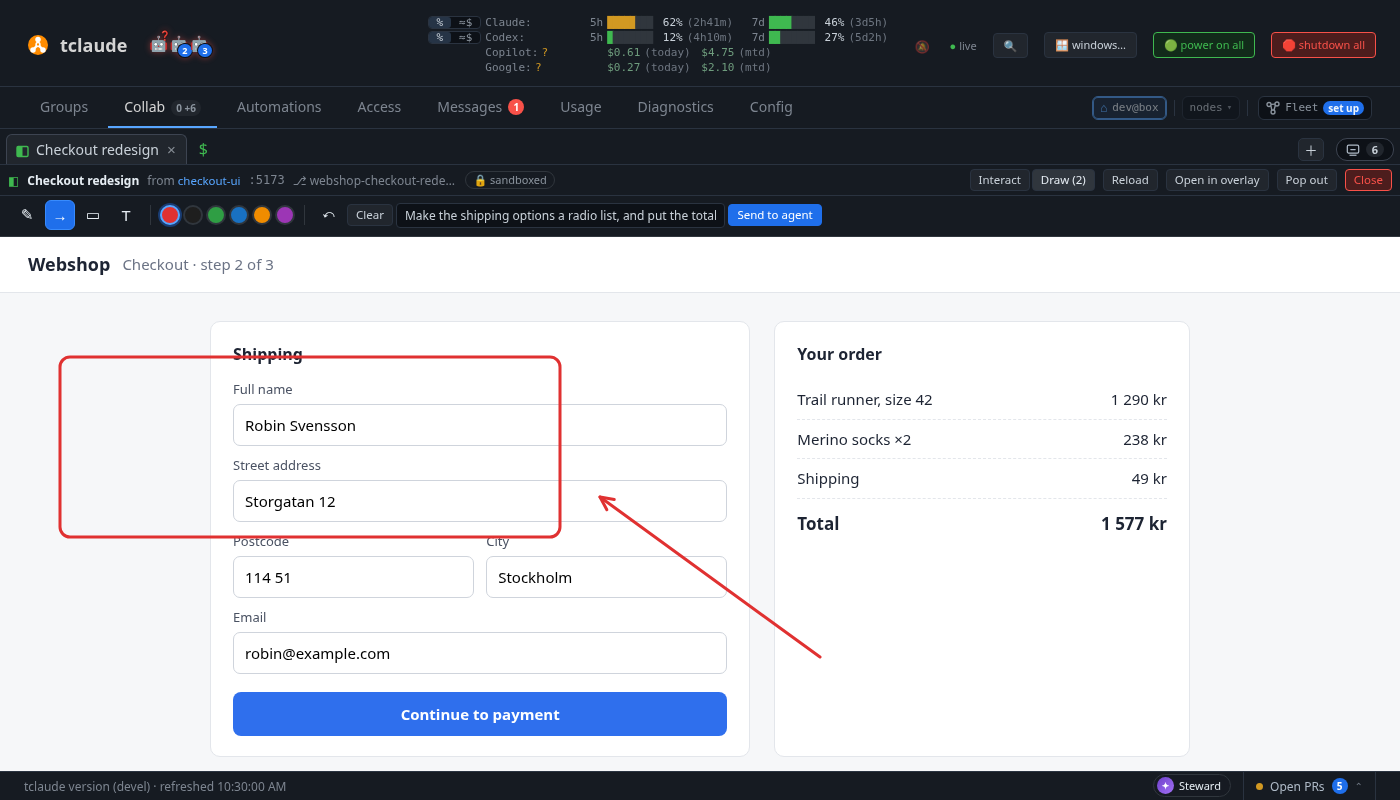
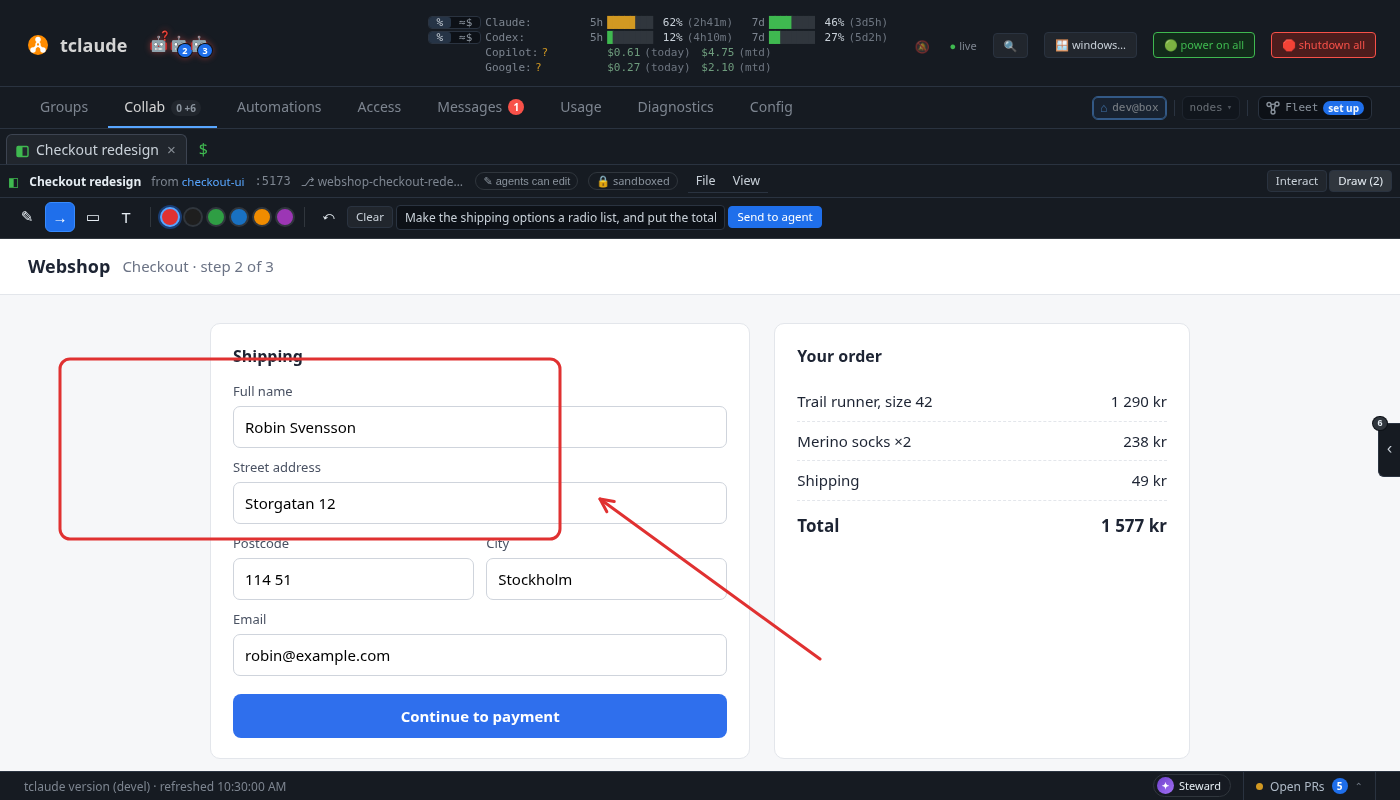
dashboard: a live page wears the resource editor header
A live page's header becomes the shared ResourceEditorHeader
(tk_034e2afc): File (Reload, Close page), View (Without the live patches,
then the host's moves in editorMoveItems' wording, replacing Open in
overlay / Pop out / To the Collab tab buttons); Interact / Draw stays at
hand in the header's new actions slot. The live-page doc and its two
images follow.

diff --git a/pkg/claude/agentd/dashboard/js/page-view.js b/pkg/claude/agentd/dashboard/js/page-view.js
@@ -13,6 +13,7 @@ import { h } from 'preact';
 import { useEffect, useRef, useState } from 'preact/hooks';
 import htm from 'htm';
 import { Button } from './ui-components.js';
+import { ResourceEditorHeader, editorMoveItems } from './resource-editor-header.js';
 import { LockChip } from './resource-lock.js';
 import {
   PAGE_FRAME_SANDBOX, PAGE_WINDOW_KIND, findLivePage, isPageId, pageFrameSrc, pageLabel, pagePaneSeed, pageSandboxRules, pageSender,
@@ -24,7 +25,7 @@ import { OverlayWindow } from './overlay-window.js';
 import { OVERLAY_FOOTER_ROOM, clampPlacement } from './overlay-window-model.js';
 import { windowControlsLook } from './overlay-window-controls.js';
 import { closeOverlayTab, minimizeOverlayWindow } from './overlay-instances.js';
-import { POPUP_BLOCKED, TO_COLLAB_LABEL, registerTabMoves } from './overlay-tab-moves.js';
+import { POPUP_BLOCKED, registerTabMoves } from './overlay-tab-moves.js';
 import { detachSeedWindow, openWebWindowPane } from './terminals-tab.js';
 import { elementScreenPoint } from './terminal-drag-out.js';
 import { shellToast } from './shell-state.js';
@@ -192,10 +193,12 @@ export function PageFrame({ src, label, reloadKey, frameRef = null, onLoad = nul
     sandbox=${PAGE_FRAME_SANDBOX} allow="" referrerpolicy="no-referrer" credentialless=${true} loading="eager"></iframe>`;
 }
 
-// PageView is the header and the frame. tools are the buttons for where the
-// view is (move it elsewhere); onOpenSender opens the agent's pane, where
-// there is one.
-export function PageView({ pageId, snapshot, tools = null, onOpenSender = null, fetchImpl, notify, win = globalThis.window, WebSocketCtor }) {
+// PageView is the header and the frame. The header is the resource editors'
+// (resource-editor-header.js): File reloads or closes the page, View holds
+// the live patches' switch and moves, the host's ways elsewhere in
+// editorMoveItems' wording; Interact / Draw stays at hand. onOpenSender opens
+// the agent's pane, where there is one.
+export function PageView({ pageId, snapshot, moves = [], onOpenSender = null, fetchImpl, notify, win = globalThis.window, WebSocketCtor }) {
   const value = snapshot?.value;
   const page = findLivePage(value, pageId);
   const frameRef = useRef(null);
@@ -224,7 +227,9 @@ export function PageView({ pageId, snapshot, tools = null, onOpenSender = null, 
   useEffect(() => { if (probe.scroll) live.report(probe.scroll); }, [probe.scroll]);
   if (!page) {
     return html`<div class="page-view page-view-closed" data-page=${pageId}>
-      <div class="page-head"><span class="page-head-title">${value ? 'This page has closed.' : 'Loading the page…'}</span><span class="spacer"></span>${tools}</div>
+      <${ResourceEditorHeader} class="page-head" label="Page menu"
+        title=${html`<span class="page-head-title">${value ? 'This page has closed.' : 'Loading the page…'}</span>`}
+        menus=${[{ key: 'view', label: 'View', items: moves }]} />
     </div>`;
   }
   const label = pageLabel(page);
@@ -252,32 +257,37 @@ export function PageView({ pageId, snapshot, tools = null, onOpenSender = null, 
     if (!(await closeLivePage(page.id, { fetchImpl, notify }))) setClosing(false);
   };
   return html`<div class="page-view" data-page=${page.id}>
-    <div class="page-head">
-      <span class="page-head-glyph" aria-hidden="true">◧</span>
-      <span class="page-head-title" title=${label}>${label}</span>
-      <span class="page-head-from">from ${onOpenSender && sender.agent
+    <${ResourceEditorHeader} class="page-head" label="Page menu"
+      title=${html`<span class="page-head-glyph" aria-hidden="true">◧</span><span class="page-head-title" title=${label}>${label}</span>`}
+      identity=${html`<span class="page-head-from">from ${onOpenSender && sender.agent
         ? html`<${Button} size="sm" variant="link" class="page-head-sender" title=${`Open ${sender.name}'s terminal`} onClick=${() => onOpenSender(sender)}>${sender.name}<//>`
         : html`<b class="page-head-sender">${sender.name}</b>`}</span>
       <code class="page-head-target" title=${`Target: ${page.target}`}>${page.target}</code>
       ${page.worktree ? html`<span class="page-head-worktree" title=${`Worktree: ${page.worktree}`}>${baseName(page.worktree)}</span>` : null}
       <${LockChip} kind="page" id=${page.id} name=${label} locked=${lockSet ?? snapLocked} notify=${notify || (() => {})} onChanged=${setLockSet} />
       <span class="ui-tag page-sandbox-chip" tabIndex="0" role="note" title=${rules.join('\n')} aria-label=${`Sandboxed. ${rules.join(' ')}`}>🔒 sandboxed</span>
-      <span class="spacer"></span>
       ${chip ? html`<span class=${`ui-tag page-patch-chip${chip.live ? ' live' : ''}`} role="status"
-        title=${chip.live ? `The agent changed this page live. Its source does not have these changes yet.` : 'The page shows its source.'}>${chip.text}</span>` : null}
-      ${chip?.live ? html`<${Button} size="sm" class="mux-btn" pressed=${without}
-        title=${without ? 'Show the page with the live patches again' : 'Show the page as its source is, without the live patches'}
-        onClick=${() => setWithout((v) => !v)}>Show without<//>` : null}
-      <span class="page-mode" role="group" aria-label="Mode">
+        title=${chip.live ? `The agent changed this page live. Its source does not have these changes yet.` : 'The page shows its source.'}>${chip.text}</span>` : null}`}
+      menus=${[
+        { key: 'file', label: 'File', items: [
+          { key: 'reload', label: 'Reload', title: 'Reload the page', run: () => setManual((n) => n + 1) },
+          { sep: true },
+          { key: 'close', label: 'Close page', danger: true, disabled: closing,
+            title: page.group_id ? 'Close this page: the agent that showed it is told, and the page stays in its group to reopen' : 'Close this page: it ends, and the agent that showed it is told',
+            run: () => void close() },
+        ] },
+        { key: 'view', label: 'View', items: [
+          chip?.live ? { key: 'without', label: 'Without the live patches', checked: without,
+            title: without ? 'Show the page with the live patches again' : 'Show the page as its source is, without the live patches',
+            run: () => setWithout((v) => !v) } : null,
+          { sep: true },
+          ...moves,
+        ] },
+      ]}
+      actions=${html`<span class="page-mode" role="group" aria-label="Mode">
         <${Button} size="sm" class="mux-btn" pressed=${!drawing} title="Use the page" onClick=${() => setDrawing(false)}>Interact<//>
         <${Button} size="sm" class="mux-btn" pressed=${drawing} title="Draw on top of the page to show the agent what to change" onClick=${() => setDrawing(true)}>Draw${marks.marks.length ? ` (${marks.marks.length})` : ''}<//>
-      </span>
-      <${Button} size="sm" class="mux-btn" title="Reload the page" onClick=${() => setManual((n) => n + 1)}>Reload<//>
-      ${tools}
-      <${Button} size="sm" variant="danger" class="mux-btn" busy=${closing} disabled=${closing}
-        title=${page.group_id ? 'Close this page: the agent that showed it is told, and the page stays in its group to reopen' : 'Close this page: it ends, and the agent that showed it is told'}
-        onClick=${() => void close()}>Close<//>
-    </div>
+      </span>`} />
     ${drawing ? html`<${PageDrawBar} tool=${tool} setTool=${setTool} color=${color} setColor=${setColor} marks=${marks.marks}
       onUndo=${marks.undo} onClear=${marks.clear} note=${note} setNote=${setNote} onSend=${() => void send()} sending=${sending} agentName=${sender.name} />` : null}
     <div class="page-body">
@@ -315,15 +325,17 @@ export function PagePane({ pane, active, solo = false, manageTitle = false, acti
   useEffect(() => {
     if (active && manageTitle) document.title = `${label ? `${label} — ` : ''}tclaude page`;
   }, [active, manageTitle, label]);
-  const tools = solo
-    ? html`<${Button} size="sm" class="mux-btn" title="Move this page back to a tab of the dashboard" onClick=${() => void actions.reattachPane(pane.key)}>${TO_COLLAB_LABEL}<//>
-      ${pane.seed.floats && globalThis.window?.opener && !globalThis.window.opener.closed
-        ? html`<${Button} size="sm" class="mux-btn" title="Float this page in a window over the dashboard" onClick=${() => void actions.reattachPane(pane.key, { overlay: true })}>Open in overlay<//>` : null}`
-    : html`<${Button} size="sm" class="mux-btn" title="Float this page in a window over the dashboard" onClick=${() => void actions.openPaneInOverlay(pane.key)}>Open in overlay<//>
-      <${Button} size="sm" class="mux-btn" title="Move this page to a browser window of its own" onClick=${() => void actions.popOutPane(pane.key, { floats: true })}>Pop out<//>`;
+  const moves = editorMoveItems({
+    what: 'this page',
+    toCollab: solo ? () => void actions.reattachPane(pane.key) : null,
+    toOverlay: solo
+      ? (pane.seed.floats && globalThis.window?.opener && !globalThis.window.opener.closed ? () => void actions.reattachPane(pane.key, { overlay: true }) : null)
+      : () => void actions.openPaneInOverlay(pane.key),
+    toWindow: solo ? null : () => void actions.popOutPane(pane.key, { floats: true }),
+  });
   return html`<div class=${`mux-pane mux-pane-page${active ? ' active' : ''}${scope?.hidden ? ' scope-hidden' : ''}`} id=${pane.id}
     role=${solo ? null : 'tabpanel'} data-page-pane=${id}>
-    <${PageView} pageId=${id} snapshot=${snapshot} tools=${tools} fetchImpl=${fetchImpl} notify=${notify}
+    <${PageView} pageId=${id} snapshot=${snapshot} moves=${moves} fetchImpl=${fetchImpl} notify=${notify}
       onOpenSender=${solo ? null : (sender) => void openWebWindowPane(sender.agent, sender.name, { harness: sender.harness })} />
   </div>`;
 }
@@ -368,8 +380,6 @@ export function PageOverlayWindow({ instance, overlay, strip, close, snapshot, f
       closeOverlayTab(instance.id);
     } else notify?.(POPUP_BLOCKED, true);
   };
-  const tools = html`<${Button} size="sm" class="mux-btn" title="Move this page to a tab of the Collab view" onClick=${toCollab}>${TO_COLLAB_LABEL}<//>
-    <${Button} size="sm" class="mux-btn" title="Move this page to a browser window of its own" onClick=${toWindow}>Pop out<//>`;
   const title = html`${strip}
     ${look === 'classic' && html`<button data-ui-exempt type="button" class="drawing-board-overlay-close" title="Minimize" aria-label=${`Minimize ${label}`}
       onClick=${() => minimizeOverlayWindow(instance.id)}>–</button>`}
@@ -378,7 +388,7 @@ export function PageOverlayWindow({ instance, overlay, strip, close, snapshot, f
   return html`<${OverlayWindow} id=${instance.windowId} window=${overlay} open=${open} className="drawing-board-overlay page-overlay" frameClass="drawing-board-overlay-resize-frame"
     titlebarClass=${`drawing-board-overlay-titlebar overlay-look-${look}`} label=${`Page ${label}`} title=${title}
     controls=${{ look, closeLabel: `Close ${label}`, closeTitle: close.title, onClose: close.onClose, onMinimize: () => minimizeOverlayWindow(instance.id), onCollab: toCollab }}>
-    <${PageView} pageId=${instance.page} snapshot=${snapshot} tools=${tools} fetchImpl=${fetchImpl} notify=${notify} win=${win}
+    <${PageView} pageId=${instance.page} snapshot=${snapshot} moves=${editorMoveItems({ what: 'this page', toCollab, toWindow })} fetchImpl=${fetchImpl} notify=${notify} win=${win}
       onOpenSender=${(sender) => void openWebWindowPane(sender.agent, sender.name, { harness: sender.harness })} />
   <//>`;
 }

diff --git a/pkg/claude/agentd/dashboard/js/resource-editor-header.js b/pkg/claude/agentd/dashboard/js/resource-editor-header.js
@@ -5,6 +5,8 @@
 //   menu bar   File · Edit · View · Share, each filled by the editor; a menu
 //              with no items is left out (Edit only where it adds more than
 //              its shortcuts)
+//   actions    optional, the one or two actions kept at hand beside the
+//              menus (the process editor's Get help and Save)
 //   people     optional, at the right: who is on the resource, which opens
 //              Share
 //
@@ -32,10 +34,13 @@ export const TO_WINDOW_LABEL = 'Open in separate window';
 export { TO_COLLAB_LABEL };
 
 // editorMoveItems are View's moves for a host: toCollab, toOverlay and
-// toWindow are the host's ways there (null where it cannot go), each
-// answering the editor's kind for the tooltip ("this drawing board").
-export function editorMoveItems({ what = 'this editor', toCollab = null, toOverlay = null, toWindow = null } = {}) {
+// toWindow are the host's ways there (null where it cannot go); `what` names
+// the editor for the tooltips ("this drawing board"). toDock is a place of
+// the editor's own instead of the Collab tab, { label, title, run } (the
+// process editor's Processes tab).
+export function editorMoveItems({ what = 'this editor', toDock = null, toCollab = null, toOverlay = null, toWindow = null } = {}) {
   const items = [];
+  if (toDock) items.push({ key: 'to-dock', label: toDock.label, title: toDock.title || '', run: toDock.run });
   if (toCollab) items.push({ key: 'to-collab', label: TO_COLLAB_LABEL, title: `Move ${what} back to a tab of the dashboard`, run: toCollab });
   if (toOverlay) items.push({ key: 'to-overlay', label: TO_OVERLAY_LABEL, title: `Float ${what} in a window over the dashboard`, run: toOverlay });
   if (toWindow) items.push({ key: 'to-window', label: TO_WINDOW_LABEL, title: `Move ${what} to a browser window of its own`, run: toWindow });
@@ -162,12 +167,13 @@ export function EditorMenuBar({ menus, label = 'Editor menu', open: openKey, onO
 // ResourceEditorHeader lays the header out: identity, the menu bar, then
 // people at the right. people is drawn as given; openMenu/onOpenMenu let the
 // people stack open Share.
-export function ResourceEditorHeader({ title, identity = null, menus = [], people = null, label = 'Editor menu', openMenu, onOpenMenu, class: extra = '' }) {
+export function ResourceEditorHeader({ title, identity = null, menus = [], actions = null, people = null, label = 'Editor menu', openMenu, onOpenMenu, class: extra = '' }) {
   const peopleRef = useRef(null);
   return html`<header class=${`reh ${extra}`.trim()}>
     <div class="reh-identity">${title}${identity}</div>
     <${EditorMenuBar} menus=${menus} label=${label} open=${openMenu} onOpen=${onOpenMenu} roots=${[peopleRef]} />
     <span class="reh-spacer"></span>
+    ${actions && html`<div class="reh-actions">${actions}</div>`}
     ${people && html`<div class="reh-people" ref=${peopleRef}>${people}</div>`}
   </header>`;
 }

diff --git a/pkg/claude/agentd/dashboard/ui.css b/pkg/claude/agentd/dashboard/ui.css
@@ -417,7 +417,7 @@ body.wizard :is(.ui-dialog, .filter-bar, .cfg-field, .cfg-row-ctl) :is(input:not
 .reh-menu .reh-menu-key { color: var(--ui-muted-text); font-size: 11px; margin-left: 16px; }
 .reh-menu-heading { padding: 4px 10px 2px; color: var(--ui-muted-text); font-size: 10.5px; }
 .reh-menu-node { padding: 4px 6px; }
-.reh-people { display: flex; align-items: center; }
+.reh-people, .reh-actions { display: flex; align-items: center; gap: 6px; }
 .reh-stack { display: inline-flex; align-items: center; gap: 6px; border: 1px solid var(--ui-line); border-radius: 14px; padding: 2px 8px 2px 3px;
   background: none; color: var(--ui-text); font: inherit; font-size: 12px; cursor: pointer; }
 .reh-stack:hover { border-color: var(--ui-focus); }

diff --git a/pkg/claude/agentd/dashboard/mux.css b/pkg/claude/agentd/dashboard/mux.css
@@ -605,7 +605,6 @@ body.wizard .mux-pane-xterm {
   flex: none; display: flex; align-items: center; gap: 8px; padding: 4px 8px; min-width: 0;
   border-bottom: 1px solid var(--ui-line); background: #161b22; color: var(--ui-text); font-size: 12px;
 }
-.page-head .spacer { flex: 1 1 auto; }
 .page-head-glyph { color: #3fb950; }
 .page-head-title { min-width: 0; max-width: 32ch; overflow: hidden; white-space: nowrap; text-overflow: ellipsis; color: var(--ui-text-strong); font-weight: 600; }
 .page-head-from { flex: none; color: var(--ui-muted-text); white-space: nowrap; }

diff --git a/docs/live-page.md b/docs/live-page.md
@@ -168,7 +168,7 @@ the group owns it:
 
 ## In the dashboard
 
-![A live page in a Collab tab: the header names the agent, the target and the worktree, with the sandboxed chip, Reload, Open in overlay, Pop out and Close](assets/live-page-tab.png)
+![A live page in a Collab tab: the header names the agent, the target and the worktree, with the sandboxed chip, the File and View menus and Interact / Draw](assets/live-page-tab.png)
 
 A page an agent shows opens as a **Page** tab (◧) in the Collab strip, behind
 the tab you are on, so it never takes your focus. The tab has a dot until you
@@ -179,16 +179,18 @@ that were already open when the dashboard loaded open quietly, with no toast.
 The header above the page says who showed it (a link to that agent's
 terminal), its target and worktree, and carries a **🔒 sandboxed** chip. Hover
 the chip for the page's origin and its rules, including that the agent that
-showed the page can read what you type in it. Then:
+showed the page can read what you type in it. Its menus are the drawing
+board's and the process editor's:
 
-- **Reload** loads the page again. Saved files under a static target and a
-  re-show reload it on their own.
-- **Open in overlay** floats it in an overlay window, and **Pop out** moves it
-  to a browser window of its own. Like a drawing board, a page tab can be reordered,
+- **File › Reload** loads the page again. Saved files under a static target
+  and a re-show reload it on their own.
+- **View › Open in overlay** floats it in an overlay window, and **View › Open
+  in separate window** moves it to a browser window of its own; from there,
+  **View › Open in the Collab tab** brings it back. Like a drawing board, a page tab can be reordered,
   grouped, dragged off the strip or onto an overlay window. A separate window
   is the dashboard's own page with the same frame in it: the page's origin
   never loads as a top-level page.
-- **Close**, or the tab's ×, closes the page. The agent is told in its
+- **File › Close page**, or the tab's ×, closes the page. The agent is told in its
   inbox. A page shared in a group stays in the group's Resources, closed,
   and reopens from there; a private page ends. Moving a page between places
   does not close it.
@@ -220,7 +222,7 @@ page's content: checked, shown only as text, and kept out of the inbox message.
 An agent can change its open page without touching its source, to ask "like
 this?" (see [Live patches for the agent](#live-patches-for-the-agent)). While
 a page has live patches, its header says **⚡ live patch #N · not in source**,
-and **Show without** reloads the page as its source is; press it again to see
+and **View › Without the live patches** reloads the page as its source is; pick it again to see
 the patches. After the agent drops them the header says **No live patches ·
 source**. Patches apply in every open view of the page and come back after
 each reload, until the agent drops them or the page closes. They never change
